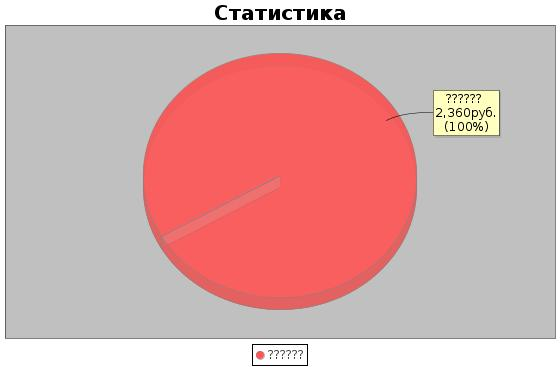
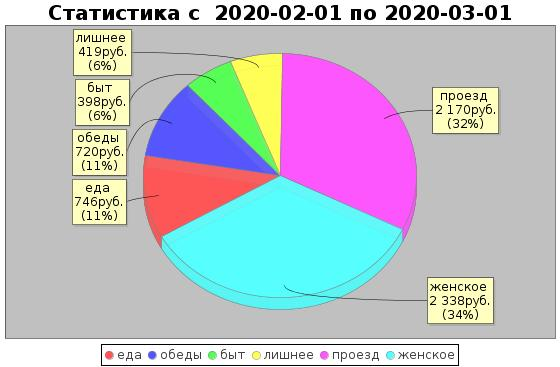
categories roll to enum
little fix

bugfixes

fix

fix

fix

diff --git a/src/main/java/com/bot/service/ProductService.java b/src/main/java/com/bot/service/ProductService.java
@@ -1,14 +1,19 @@
 package com.bot.service;
 
+import com.bot.model.Category;
 import com.bot.model.dto.StatisticDto;
 import com.bot.model.entities.Product;
 import com.bot.repositories.ProductRepository;
+import com.bot.service.converter.ArgsToEntityConverter;
 import com.bot.service.util.CalculateUtils;
+import org.slf4j.Logger;
 import org.springframework.beans.factory.annotation.Autowired;
 import org.springframework.stereotype.Service;
+import org.telegram.telegrambots.meta.api.objects.User;
 
 import java.math.BigDecimal;
 import java.time.LocalDateTime;
+import java.util.Arrays;
 import java.util.List;
 import java.util.stream.Collectors;
 
@@ -17,11 +22,32 @@ public class ProductService {
 
     @Autowired
     private ProductRepository productRepository;
+    @Autowired
+    private Logger LOG;
 
 
-    public Product createAndSaveProduct(String[] arguments, String username){
-           Product product = toProduct(arguments, username);
-           return productRepository.save(product);
+    public boolean createAndSaveProduct(String[] arguments, User user, StringBuilder message) {
+        try {
+            if (arguments.length < 2) {
+                throw new NumberFormatException();
+            }
+            int price = Integer.parseInt(arguments[1]);
+
+            Product product = ArgsToEntityConverter.toProduct(arguments, price, user.getFirstName());
+            productRepository.save(product);
+            message.append(String.format("Трата %s по цене %s успешно добавлена.", arguments[0], arguments[1]));
+            return true;
+
+        } catch (NumberFormatException e){
+            message.append("Неверный формат команды! Формат:\n /add &lt;category&gt; &lt;price&gt; &lt;description&gt;");
+            LOG.error(String.format("Неверный формат ввода от пользователя %s id: %d", user.getFirstName(), user.getId()), e);
+
+        } catch (IllegalArgumentException e){
+            message.append("Категория не найдена! Список доступных категорий:\n");
+            Arrays.stream(Category.values()).forEach(x -> message.append(x.getName()).append("\n"));
+            LOG.error(String.format("Попытка добавления неизвестной категории от пользователя %s id: %d", user.getFirstName(), user.getId()), e);
+        }
+        return false;
     }
 
     public List<Product> getPurchases(LocalDateTime start, LocalDateTime end){
@@ -37,7 +63,7 @@ public class ProductService {
     public List<StatisticDto> getStatistic(LocalDateTime start, LocalDateTime end){
         return productRepository.getStatistic(start, end)
                 .stream()
-                .map(this::toStatisticsDto)
+                .map(ArgsToEntityConverter::toStatisticsDto)
                 .collect(Collectors.toList());
     }
 
@@ -52,22 +78,6 @@ public class ProductService {
 
     public BigDecimal totalSpend(LocalDateTime start, LocalDateTime end){
         return productRepository.getSum(start, end);
-    }
-
-    private Product toProduct(String[] arguments, String username){
-        Product product = new Product();
-        product.setCategory(arguments[0]);
-        product.setPrice(Integer.parseInt(arguments[1]));
-        product.setData(LocalDateTime.now());
-        product.setSpendedBy(username);
-        if (arguments.length == 3) {
-            product.setDescription(arguments[2]);
-        }
-        return product;
-    }
-
-    public StatisticDto toStatisticsDto(Object[] obj){
-        return new StatisticDto((String)obj[0], (BigDecimal) obj[1]);
     }
 
 }

diff --git a/src/main/java/com/bot/model/Category.java b/src/main/java/com/bot/model/Category.java
@@ -1,0 +1,63 @@
+package com.bot.model;
+
+import java.util.Arrays;
+
+public enum Category {
+    /*
+    Категории:
+    Квартплата
+    Связь
+    Еда
+    Карманные
+    Развлечения
+    Быт
+    Подарки
+    Терапия
+    Здоровье
+    Прочее
+    Проезд
+    Женское
+    Лишнее
+    Путушествия
+    Обеды
+    Обучение
+ */
+    RENT("квартплата"),
+    PHONES("связь"),
+    FEED("еда"),
+    POCKET_MONEY("карманные"),
+    ENTERTAINMENT("развлечения"),
+    REALITY("быт"),
+    GIFTS("подарки"),
+    THERAPY("терапия"),
+    HEALTH("здоровье"),
+    TRANSPORT("проезд"),
+    WOMAN_STUFF("женское"),
+    REDUNDANT("лишнее"),
+    TRAVEL("путешествия"),
+    LUNCH("обеды"),
+    OTHER("прочее"),
+    EDUCATION("обучение");
+
+    private String name;
+
+    public String getName() {
+        return name;
+    }
+
+    Category(String name) {
+        this.name = name;
+    }
+
+    public static boolean containsCategory(String description){
+        return Arrays.stream(Category.values()).anyMatch(category -> category.name.equals(description.toLowerCase()));
+    }
+
+    public static Category getCategoryByName(String description){
+        return Arrays.stream(Category.values()).filter(category -> category.name.equals(description.toLowerCase())).findFirst().orElse(null);
+    }
+
+    public static String getNameByCategory(String category){
+        return Arrays.stream(Category.values()).filter(item -> item.toString().equals(category)).map(Category::getName).findFirst().orElse(null);
+    }
+}

diff --git a/src/main/java/com/bot/model/entities/Product.java b/src/main/java/com/bot/model/entities/Product.java
@@ -1,7 +1,9 @@
 package com.bot.model.entities;
 
 
+import com.bot.model.Category;
 import lombok.Data;
+import lombok.NoArgsConstructor;
 
 import javax.persistence.*;
 import java.time.LocalDateTime;
@@ -11,14 +13,15 @@ import java.util.Arrays;
 @Entity
 @Data
 @Table(name = "product")
+@NoArgsConstructor
 public class Product {
 
     @Id
     @GeneratedValue(strategy = GenerationType.IDENTITY)
     private Long id;
 
-    @Column(name = "category")
-    private String category;
+    @Enumerated(EnumType.STRING)
+    private Category category;
 
     @Column(name = "price")
     private int price;
@@ -35,10 +38,18 @@ public class Product {
     @Column(name = "deleted")
     private boolean deleted;
 
+    public Product(Category category, int price, LocalDateTime data, String description, String spendedBy) {
+        this.category = category;
+        this.price = price;
+        this.data = data;
+        this.description = description;
+        this.spendedBy = spendedBy;
+    }
+
     @Override
     public String toString() {
         return description == null ?
-          String.join(" - ", Arrays.asList(data.format(DateTimeFormatter.ISO_LOCAL_DATE), spendedBy, category, price + "\n"))
-                : String.join(" - ", Arrays.asList(data.format(DateTimeFormatter.ISO_LOCAL_DATE), spendedBy, category, description, price + "\n"));
+          String.join(" - ", Arrays.asList(data.format(DateTimeFormatter.ISO_LOCAL_DATE), spendedBy, category.toString(), price + "\n"))
+                : String.join(" - ", Arrays.asList(data.format(DateTimeFormatter.ISO_LOCAL_DATE), spendedBy, category.toString(), description, price + "\n"));
     }
 }

diff --git a/src/main/java/com/bot/service/converter/ArgsToEntityConverter.java b/src/main/java/com/bot/service/converter/ArgsToEntityConverter.java
@@ -1,0 +1,35 @@
+package com.bot.service.converter;
+
+
+import com.bot.model.Category;
+import com.bot.model.dto.StatisticDto;
+import com.bot.model.entities.Product;
+
+import java.math.BigDecimal;
+import java.time.LocalDateTime;
+import java.util.Arrays;
+import java.util.stream.Collectors;
+
+public class ArgsToEntityConverter {
+
+    public static Product toProduct(String[] arguments, int price, String username) throws IllegalArgumentException {
+        String desc = arguments.length >= 3 ?
+                Arrays.stream(arguments)
+                        .skip(2)
+                        .collect(Collectors.joining(" "))
+                : null;
+
+        if (!Category.containsCategory(arguments[0])) {
+            throw new IllegalArgumentException();
+        }
+
+        return new Product(Category.getCategoryByName(arguments[0]), price, LocalDateTime.now(), desc, username);
+    }
+
+    public static StatisticDto toStatisticsDto(Object[] obj){
+        String category = Category.getNameByCategory((String)obj[0]);
+        BigDecimal price = (BigDecimal)obj[1];
+
+        return new StatisticDto(category, price);
+    }
+}

diff --git a/src/main/java/com/bot/commands/commonCommands/GetStatistic.java b/src/main/java/com/bot/commands/commonCommands/GetStatistic.java
@@ -3,7 +3,7 @@ package com.bot.commands.commonCommands;
 import com.bot.commands.PlannerBaseCommand;
 import com.bot.model.dto.StatisticDto;
 import com.bot.service.ProductService;
-import com.bot.service.converter.DataToImageConverter;
+import com.bot.service.DataToImageService;
 import com.bot.service.util.ParseUtil;
 import org.springframework.beans.factory.annotation.Autowired;
 import org.springframework.scheduling.annotation.Scheduled;
@@ -57,7 +57,7 @@ public class GetStatistic extends PlannerBaseCommand {
                 message.append(productService.getStaticticMsg(statisticData, total));
                 message.append("Всего потрачено: ").append(total == null ? 0 : total).append(" руб.");
                 if(total != null) {
-                    File img = DataToImageConverter.convert(statisticData, startDate.toLocalDate(), endDate.toLocalDate());
+                    File img = DataToImageService.convert(statisticData, startDate.toLocalDate(), endDate.toLocalDate());
                     sendPhoto(absSender, user, chat, img);
                 }
             }

diff --git a/src/main/java/com/bot/commands/commonCommands/AddSpendingCommand.java b/src/main/java/com/bot/commands/commonCommands/AddSpendingCommand.java
@@ -21,16 +21,10 @@ public class AddSpendingCommand extends PlannerBaseCommand {
     @Override
     public void execute(AbsSender absSender, User user, Chat chat, String[] arguments) {
         LOG.info("BotUser {}, id: {}, chat: {} is trying to execute '{}'.", user.getUserName(), user.getId(), chat.getId(), getCommandIdentifier());
-
         StringBuilder message = new StringBuilder();
 
         if(botService.hasAccessToCommands(user.getId())){
-            if (arguments.length < 2) {
-                message.append("Нужно использовать такой формат:\n /add &lt;category&gt; &lt;price&gt; &lt;description&gt;");
-            } else {
-                productService.createAndSaveProduct(arguments, user.getUserName());
-                message.append(String.format("Трата %s по цене %s успешно добавлена.", arguments[0], arguments[1]));
-            }
+            productService.createAndSaveProduct(arguments, user, message);
         }
 
         sendMsg(absSender, user, chat, message.toString());

diff --git a/src/main/java/com/bot/service/DataToImageService.java b/src/main/java/com/bot/service/DataToImageService.java
@@ -1,4 +1,4 @@
-package com.bot.service.converter;
+package com.bot.service;
 
 import com.bot.model.dto.StatisticDto;
 import org.jfree.chart.ChartFactory;
@@ -21,7 +21,7 @@ import java.time.format.DateTimeFormatter;
 import java.util.List;
 import java.util.StringJoiner;
 
-public class DataToImageConverter {
+public class DataToImageService {
 
     private static PieDataset createDataset(List<StatisticDto> data) {
         DefaultPieDataset dataset = new DefaultPieDataset();
